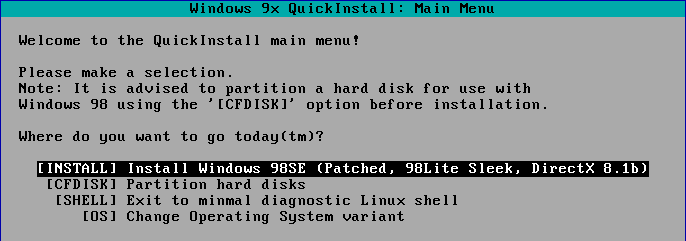
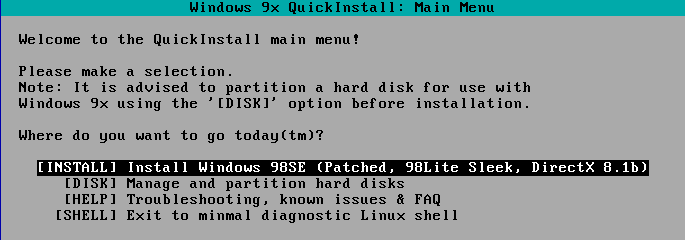
Update docs and screenshots

diff --git a/README.md b/README.md
@@ -44,6 +44,7 @@ If possible, please also verify that the problem does not occur with the driver 
 - [The QuickInstall Installer](#the-quickinstall-installer)
   - [Main Menu](#main-menu)
   - [Hard Disk Partitioning Tool](#hard-disk-partitioning-tool)
+    - [Wiping the partition table of a disk](#wiping-the-partition-table-of-a-disk)
   - [Installation](#installation)
 - [The Emergency Linux Shell](#the-emergency-linux-shell)
   - [3dfx Voodoo 2 Diagnostics (`witchery`)](#3dfx-voodoo-2-diagnostics-witchery)
@@ -307,6 +308,14 @@ The version of `cfdisk` shipped with QuickInstall is *slightly modified* to bett
 
 The default for partition creation is `W95 FAT32 (LBA)`.  
 However, on very old systems, you may need to choose the non-LBA version instead.
+
+### Wiping the partition table of a disk
+
+In some cases you may wish to wipe the partition table of a disk, in case there are faulty entries in it that cause the Windows 9x bootloader to trip up.
+
+To do this, you may press `F9`. **NOTE: This will cause data loss, be very careful with this feature!** 
+
+![](assets/wipetable.png)
 
 ## Installation
 
